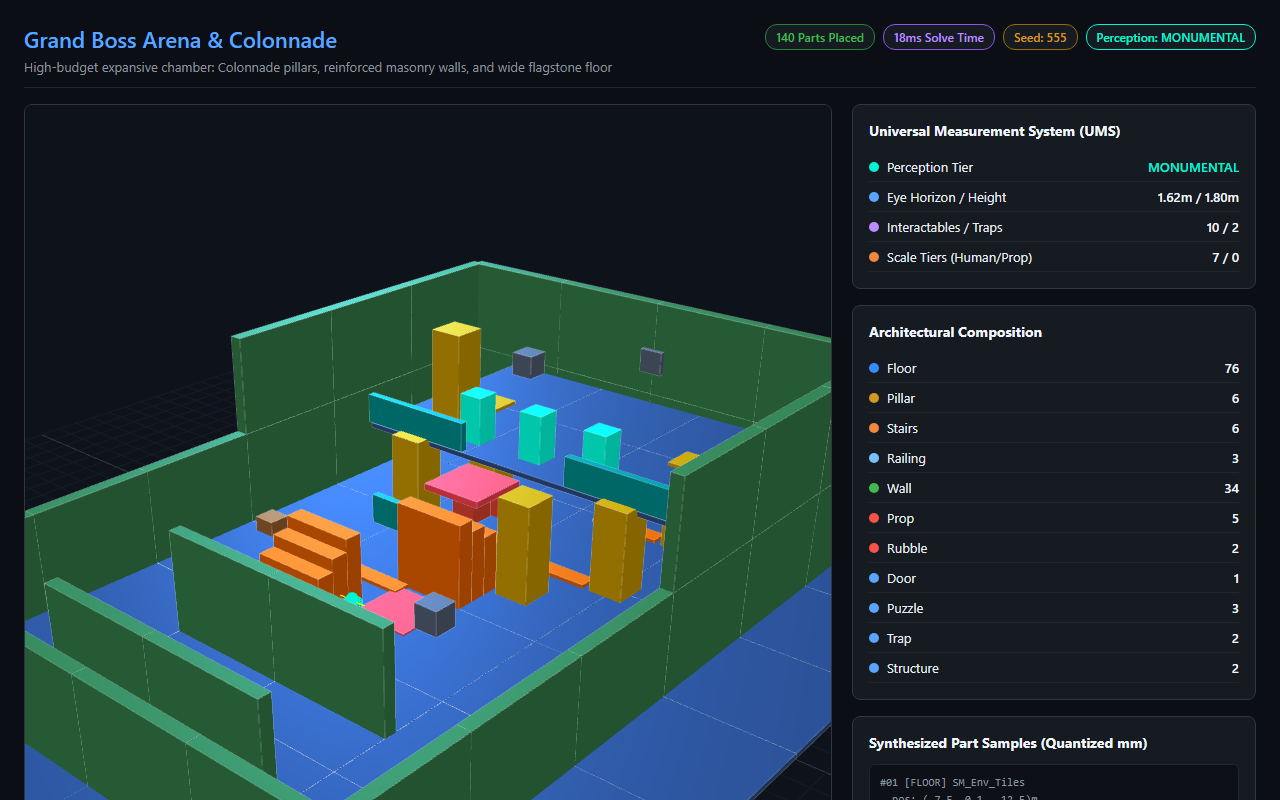
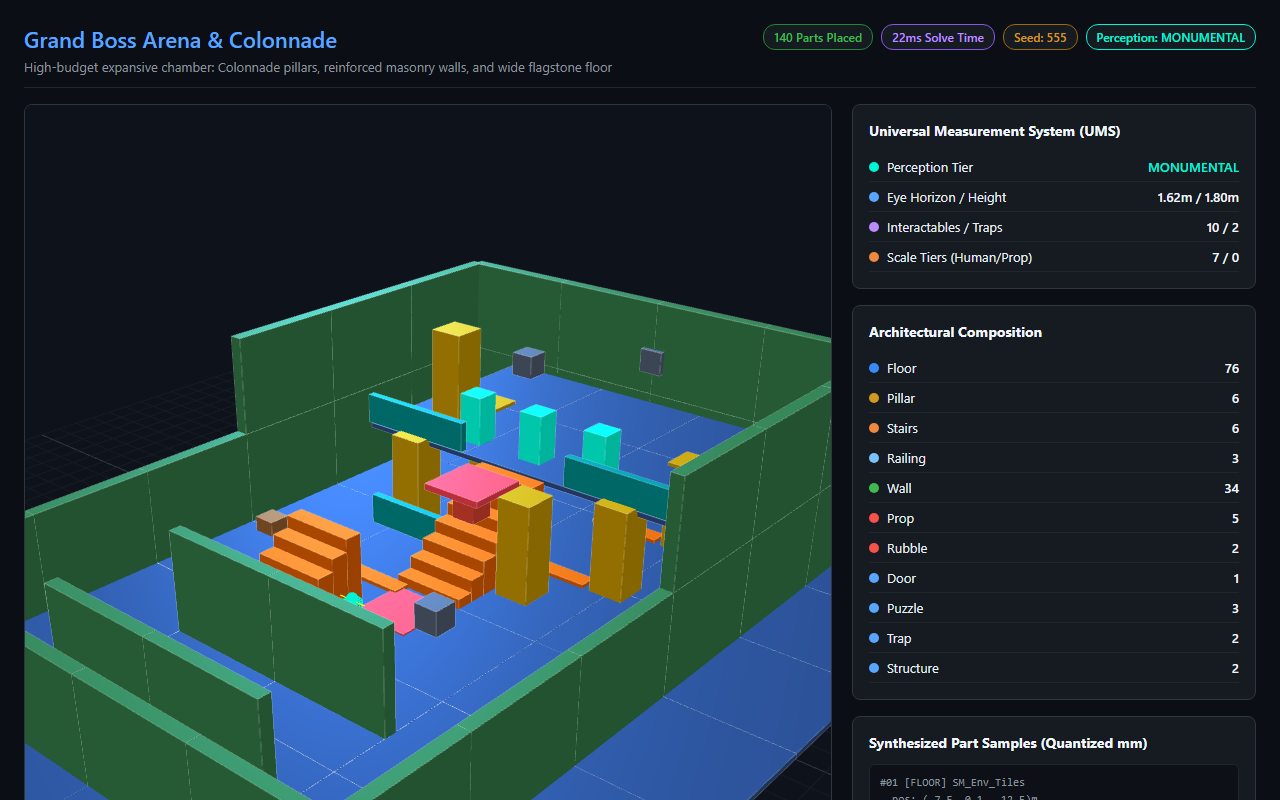
fix(synthesis): rotate circulation stairs 180 deg to ascend from main hall to mezzanine loft

diff --git a/packages/synthesis/src/synthesizer.ts b/packages/synthesis/src/synthesizer.ts
@@ -783,10 +783,11 @@ export function synthesizeAssembly(problem: SynthesisProblem): SynthesisOutput {
       }
 
       // Phase 4: Triangular Ramp / Stepped Staircase bridging Ground to Loft
-      // Descends from loft edge (z = -5.0, upperY) down to main hall (z = 0.0, lowerY)
+      // Ascends from main hall (z = 0.0, lowerY) up to loft mezzanine edge (z = -5.0, upperY)
+      // Rotated yaw = 0 so the bottom step meets ground floor at z = 0.0 and top step meets loft floor at z = -5.0
       const stairDef = pickCatPart("stairs");
       if (stairDef) {
-        addPlacement(stairDef, new THREE.Vector3(0, lowerY + 1.75, -2.5), yawQuat(Math.PI));
+        addPlacement(stairDef, new THREE.Vector3(0, lowerY + 1.75, -2.5), yawQuat(0));
       }
 
       // Phase 5: Loft Balcony Railings along open drop overlooking main hall
